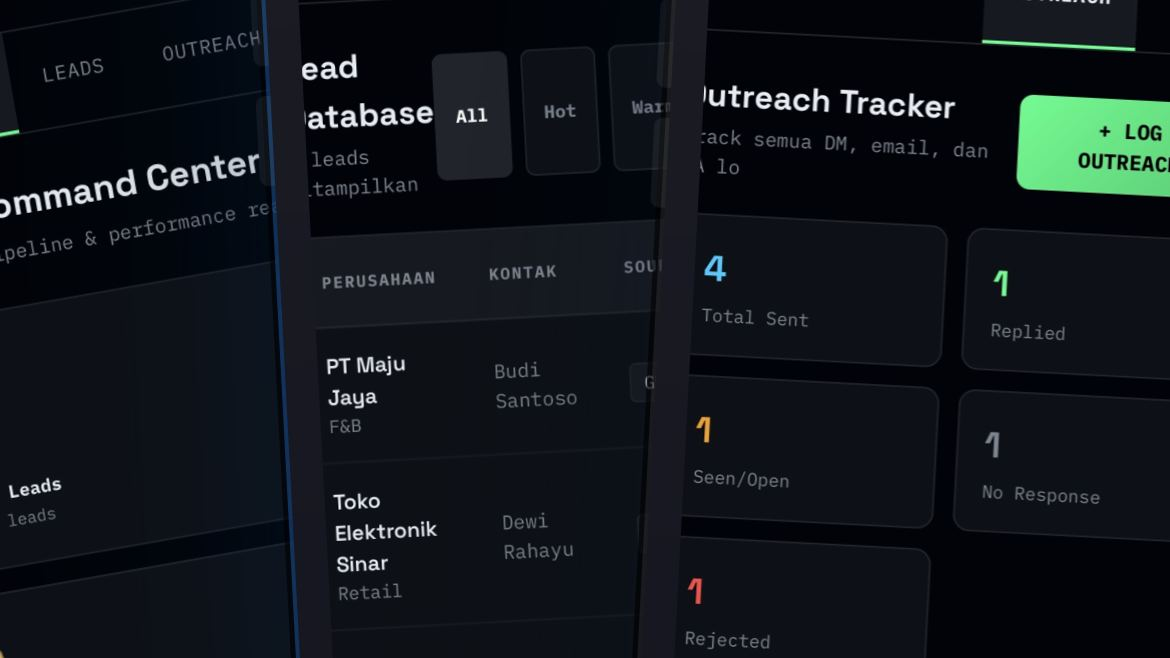
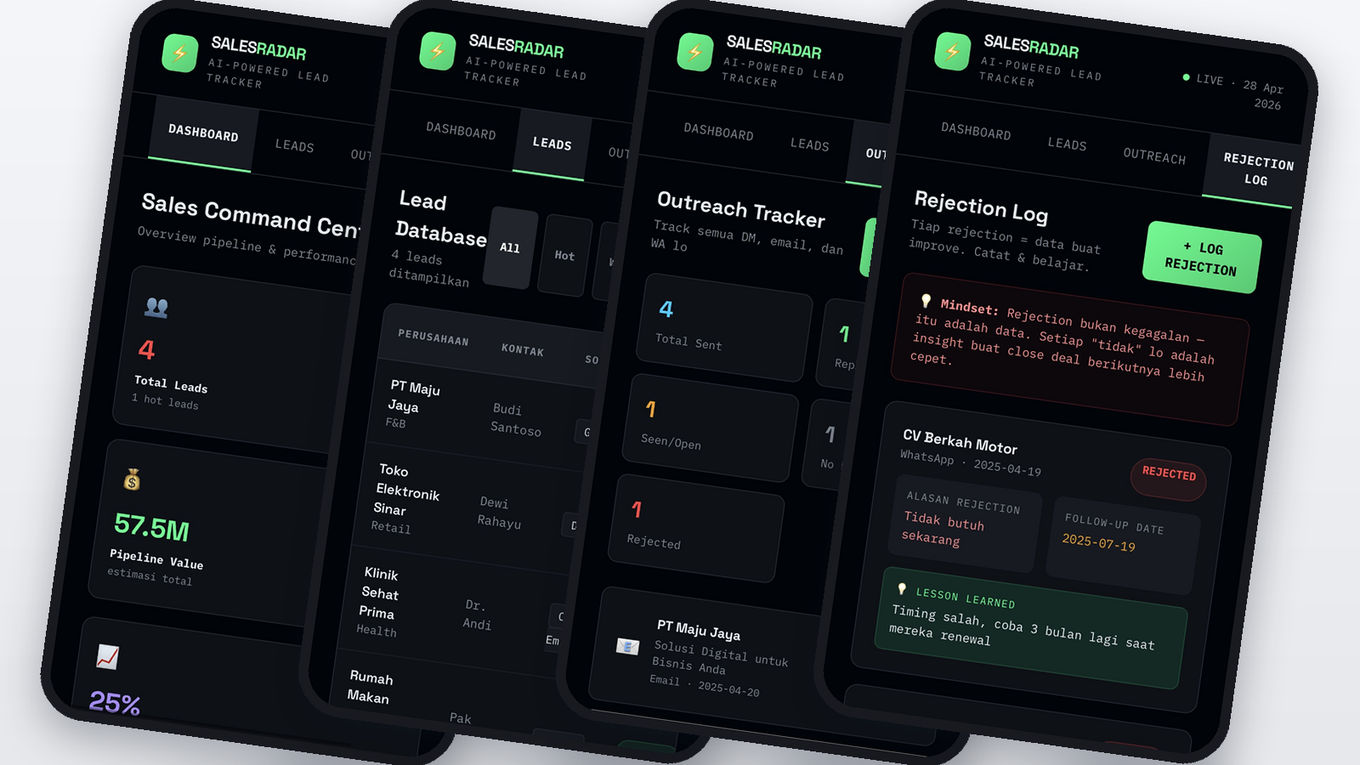
Take the SalesPAL screens from the repository, not from a photo of them
The first version was cropped out of a screenshot of the landing page on a
phone: browser chrome at the edges, three screens with their sides cut off,
and the fourth one — the rejection log — not in shot at all. The repository
has the originals, so it should have been the source.

The frame now holds all four screens as devices, tilted, on the pale ground
the product itself uses. The rejection log is the one worth having: every no
gets a reason and a date to try again, which is the argument for keeping the
other three.

The product's icon rides beside the title. It ships with a transparent
background, so it sits on the light and the dark theme without a plate under
it, and it is marked decorative — the title already says the name, and a
screen reader should not read it twice.

1360px wide, which is twice the column it renders in, at 121KB.

Claude-Session: https://claude.ai/code/session_01NpPKsMDAVTdrApeLNyYtDp

diff --git a/app/work/p/[slug]/page.tsx b/app/work/p/[slug]/page.tsx
@@ -74,8 +74,10 @@ export default async function ProjectPage({
     project.image && !project.image.includes("placeholder")
       ? project.image
       : undefined;
-  // A picture committed here stands in only where he has not chosen one.
-  const local = fromNotion ? undefined : visualFor(slug);
+  // A picture committed here stands in only where he has not chosen one; the
+  // product's own mark is not a stand-in for anything, so it shows either way.
+  const visual = visualFor(slug);
+  const local = fromNotion ? undefined : visual;
   const hero = fromNotion ?? local?.image;
   // With a picture in the frame, the frame opens whatever "Open project" opens
   // — the deployed thing itself. Without one, it does not: an empty frame
@@ -109,9 +111,25 @@ export default async function ProjectPage({
               {project.date ? ` · ${project.date.slice(0, 4)}` : ""}
             </p>
           )}
-          <h1 className="text-[15px] font-medium tracking-[-0.02em] leading-[1.6] text-fg">
-            {project.title}
-          </h1>
+          <div className="flex items-center gap-2.5">
+            {visual?.mark && (
+              /* The product's own icon, at the size of the text beside it.
+                 Decorative: the title says the name, so a screen reader
+                 reading both would say it twice. */
+              /* eslint-disable-next-line @next/next/no-img-element */
+              <img
+                src={visual.mark}
+                alt=""
+                aria-hidden="true"
+                width={22}
+                height={22}
+                className="w-[22px] h-[22px] shrink-0 rounded-[5px]"
+              />
+            )}
+            <h1 className="text-[15px] font-medium tracking-[-0.02em] leading-[1.6] text-fg">
+              {project.title}
+            </h1>
+          </div>
           {project.tags.length > 0 && (
             <div className="flex gap-2 mt-4 flex-wrap">
               {project.tags.map((tag) => (

diff --git a/app/lib/projectVisuals.ts b/app/lib/projectVisuals.ts
@@ -17,14 +17,17 @@ export interface ProjectVisual {
   image: string;
   alt: string;
   caption: string;
+  /** The product's own icon, if it has one. Shown small, beside the title. */
+  mark?: string;
 }
 
 export const PROJECT_VISUALS: Record<string, ProjectVisual> = {
   salespal: {
     image: "/work/salespal/lead-tracker.jpg",
-    alt: "Three phone screens from SalesPAL side by side: a pipeline dashboard, a lead database listing companies and contacts, and an outreach tracker counting sent, replied, seen and rejected.",
+    mark: "/work/salespal/logo-mark.png",
+    alt: "Four SalesPAL screens on phones: a pipeline dashboard, a lead database listing companies and contacts, an outreach tracker counting sent, replied, seen and rejected, and a rejection log recording why each one said no.",
     caption:
-      "The three screens the whole thing is built around — the pipeline, the leads, and what happened after you contacted them. Seeded with example companies, not real ones.",
+      "The four screens the whole thing is built around. The last one is the argument for the rest: every rejection gets a reason and a date to try again, so a no becomes something you can read later. Seeded with example companies, not real ones.",
   },
 };
 
